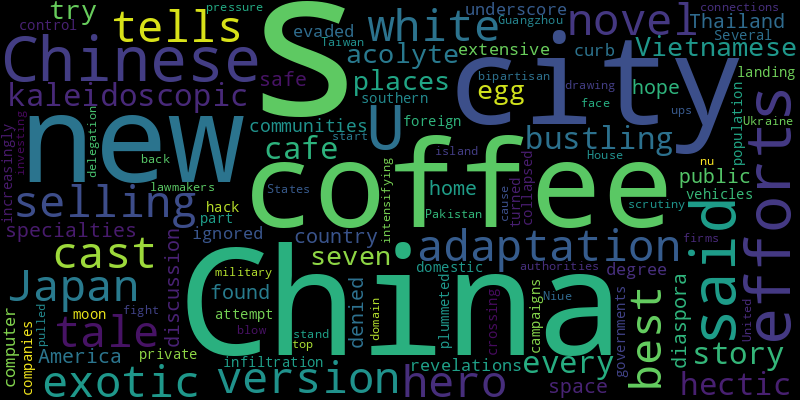
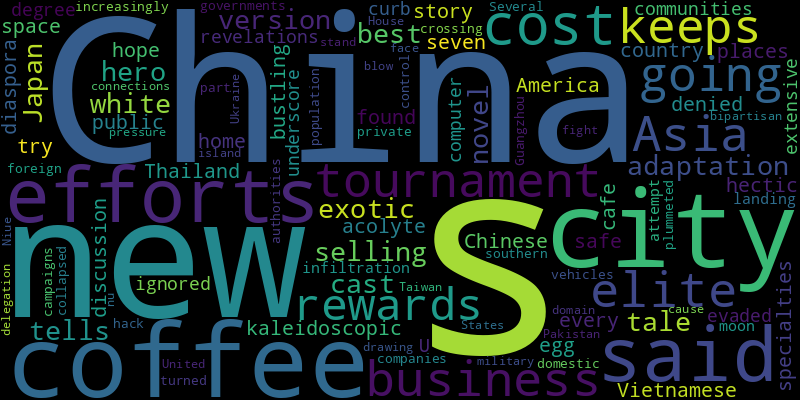
chore(bot): 🤖 auto commit

diff --git a/README.md b/README.md
@@ -2,32 +2,33 @@
 Auto RSS New York Times and Generate Word Cloud
 
 ## New York Times Global News
-* Top U.S., Israeli and Egyptian intelligence officials, as well as the prime minister of Qatar, are expected to attend the negotiations, which are aimed at securing a cease-fire and the release of hostages, according to an Israeli official.
-* The inquiry examined accusations of potential links between drug traffickers and close confidants of the president while he governed the country.
-* She said Russian authorities told her they would not release his remains unless she agreed to a “secret funeral.” Meanwhile, Aleksei Navalny’s widow met with President Biden.
-* A worsening humanitarian crisis has brought a wave of condemnation against Israel’s ongoing military operation, and is testing the support of even its staunchest ally, the United States.
-* China has increasingly turned to private companies in campaigns to hack foreign governments and control its domestic population.
-* The United States and Europe have championed a new pipeline to bring gas to Bosnia and cut supplies from Russia. But the project has been stalled by feuding among ethnic groups.
-* A bipartisan House delegation said the United States would stand by the island in the face of pressure from China, drawing connections between Taiwan’s cause and Ukraine’s.
-* The American assessments are divided, however, and President Vladimir Putin denied having such an intention, saying that Russia was “categorically against” it.
-* The ultranationalist blogger, Andrei Morozov, had described a campaign of intimidation against him and threatened to end his own life.
-* The assaults on the village of Robotyne, which come at the same time as successful attacks in the east, are designed to pressure Ukrainian troops across the front line, analysts say.
+* Western sanctions haven’t worked. Weapons from allies are running low. Pressure may build on Kyiv to seek a settlement, even from a weakened position.
+* After nearly two years and only scraps of information, a Ukrainian family still hopes their son, a marine captured by the Russians in Mariupol, will come home soon.
+* “It is a public health concern,” one U.N. official said of the lack of toilets for displaced people in the territory. “But the second thing is simply just dignity.”
+* The proposal, which calls for indefinite Israeli military control and buffer zones in the territory, rankled Arab nations and was rejected by Palestinians.
+* The country’s lower leagues offer a tempting entry to ownership. But the sport’s economics mean even multimillionaires can struggle to compete.
+* Viktor Orban, the Hungarian prime minister, said after a meeting with Sweden’s leader, and a deal for more fighter jets, that the two countries are “ready to fight for each other.”
+* Russia’s invasion came in two phases, many Ukrainians say: the first a decade ago, when it sent soldiers over the border in an unacknowledged military intervention, and the second when it began its full assault two years ago.
+* Vladimir Putin is drawing on history to position himself in the realm of Russian rulers of the past. Critics say his grip on power is not as strong as it seems.
+* Two years of war produced thousands of damaged brains. We followed surgeons and soldiers on the road to recovery.
+* While Israeli forces have delivered a major blow to Hamas in a fight that has taken a devastating toll on civilians, the group that led the Oct. 7 attack on Israel remains a threat, officials say.
 
 ![Global](./global.png)
 ## New York Times United States News
-* Chief Justice Tom Parker has long been revered by conservative groups as an architect for the overturning of Roe v. Wade.
-* Some women wonder whether they will now have to pay to keep extra embryos stored permanently, or face criminal charges if they are disposed of.
-* Americans are deeply divided on whether schools should teach about gender identity, two polls found. But there was broader support for teaching about race.
-* Officials said test-optional policies might have harmed students from lower-income families.
+* The Oklahoma school superintendent, Ryan Walters, said “radical leftists” had created a narrative about the death of 16-year-old Nex Benedict that “hasn’t been true.”
+* A court ruling declaring frozen embryos to be legally considered children has set off a scramble among leaders in both parties to preserve access to a crucial reproductive treatment.
+* The lawyers presented an affidavit describing cellphone records they will likely use to try to prove the prosecutors lied about when they began a romantic relationship.
 * As housing costs soar, Washington State wants to limit annual rent increases to 7 percent. Oregon and California have passed similar measures.
-* Veterans of the conservative, grass-roots movement see the state’s presidential primary as a fight between a “crazy uncle” and a “snowflake niece.” They’ve made their choice.
-* Speaking at a Christian media convention in Nashville, former President Donald J. Trump claimed that a “radical left, corrupt political class” was persecuting Christians.
-* The top Senate Democrat is leading a delegation to show solidarity as Ukraine fights off a Russian assault and to push the G.O.P.-led House to drop its opposition to sending more U.S. aid to Kyiv.
-* The former president’s lawyers cited an array of arguments, some of which tested the bounds of credulity or clashed with prior court rulings.
-* As some Republicans rushed to distance themselves from a decision that upended popular fertility treatments, Democrats vowed to tie them to it.
+* If you voted in the Democratic primary this month, you can’t vote in the Republican one, too.
+* Her supporters tend to be moderate and college educated — precisely the type of voters who have helped decide recent presidential races. We spoke with nearly 40 to see where they’re leaning.
+* While Catholic teaching expressly forbids in vitro fertilization, Protestants tend to be more open.
+* Nikki Haley and her onetime boss, former President Donald J. Trump, have used false and misleading claims about polls and tax proposals while exchanging jabs on the campaign trail.
+* The Bodacious Belles, a women’s group in Beaufort, N.C., shows the difference a network of support can make in an aging America.
+* In a speech to the Black Conservative Federation, former President Donald J. Trump made express overtures to Black voters, whom he and his campaign are eager to win over.
 
 ![US](./usnews.png)
 ## New York Times Asia News
+* The cost of business in Asia’s elite tournament keeps going up. The rewards do not.
 * A 1980 adaptation of the best-selling novel cast it as the tale of a white hero in an exotic Japan. A new version tells a more kaleidoscopic story.
 * In this hectic, bustling city, there’s a cafe for every coffee acolyte. Here are seven places where you can try egg coffee and other Vietnamese specialties.
 * From Thailand to America, Chinese denied a safe public space for discussion in their home country have found hope in diaspora communities.
@@ -37,6 +38,5 @@ Auto RSS New York Times and Generate Word Cloud
 * Several vehicles plummeted from the crossing, part of which collapsed, in the southern city of Guangzhou, the authorities said.
 * A bipartisan House delegation said the United States would stand by the island in the face of pressure from China, drawing connections between Taiwan’s cause and Ukraine’s.
 * Also, a blow to Pakistan’s military and Niue’s fight for the .nu domain.
-* Under intensifying scrutiny from U.S. lawmakers, top firms have pulled back from investing in Chinese start-ups.
 
 ![Asian](./asian.png)
